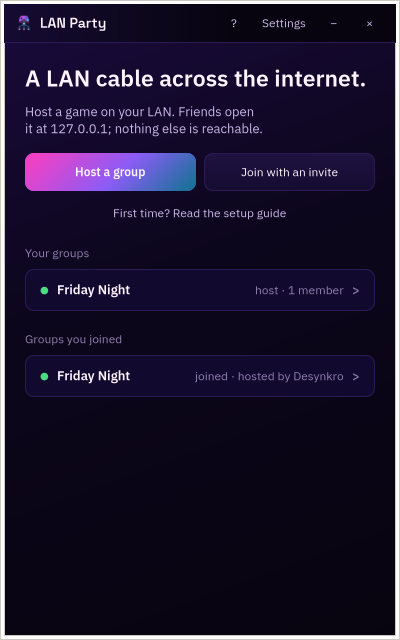
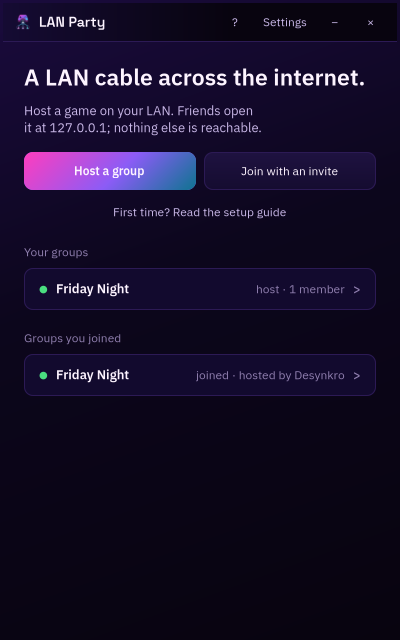
Removed the window border and evened out setting descriptions
The GTK window no longer draws the theme's light CSD border or shadow. Setting descriptions now share a fixed column with a 24px right inset, so long and short descriptions wrap at the same measure instead of running into the card edge.

diff --git a/internal/gtkui/style.css b/internal/gtkui/style.css
@@ -10,6 +10,15 @@
 @define-color cyan #22D3EE;
 @define-color live #4ADE80;
 
+window,
+window.csd,
+window.solid-csd,
+window.ssd {
+  border: none;
+  outline: none;
+  box-shadow: none;
+}
+
 window {
   background-color: @ink;
   background-image: linear-gradient(160deg, #1A0B3D 0%, #0C061C 42%, #08040F 100%);

diff --git a/internal/gtkui/settings.go b/internal/gtkui/settings.go
@@ -188,14 +188,19 @@ func (u *probeUI) settingCard(title, description string, active bool, changed fu
 	checkRow.Append(checkTitle)
 
 	descriptionLabel := textLabel(description, "desc")
-	descriptionLabel.SetMarginStart(26)
-	descriptionLabel.SetMarginTop(2)
+	descriptionLabel.SetHExpand(true)
+
+	descriptionRow := gtk.NewBox(gtk.OrientationHorizontal, 0)
+	descriptionRow.Append(gapWidth(26))
+	descriptionRow.Append(descriptionLabel)
+	descriptionRow.Append(gapWidth(24))
+	descriptionRow.SetMarginTop(2)
 
 	card := gtk.NewBox(gtk.OrientationVertical, 0)
 	card.AddCSSClass("card")
 	card.SetMarginBottom(10)
 	card.Append(checkRow)
-	card.Append(descriptionLabel)
+	card.Append(descriptionRow)
 
 	reverting := false
 	check.ConnectToggled(func() {
@@ -229,6 +234,12 @@ func formRow(labelText string, entry *gtk.Entry) *gtk.Box {
 func gapBox(height int) *gtk.Box {
 	box := gtk.NewBox(gtk.OrientationVertical, 0)
 	box.SetSizeRequest(-1, height)
+	return box
+}
+
+func gapWidth(width int) *gtk.Box {
+	box := gtk.NewBox(gtk.OrientationHorizontal, 0)
+	box.SetSizeRequest(width, -1)
 	return box
 }
 
